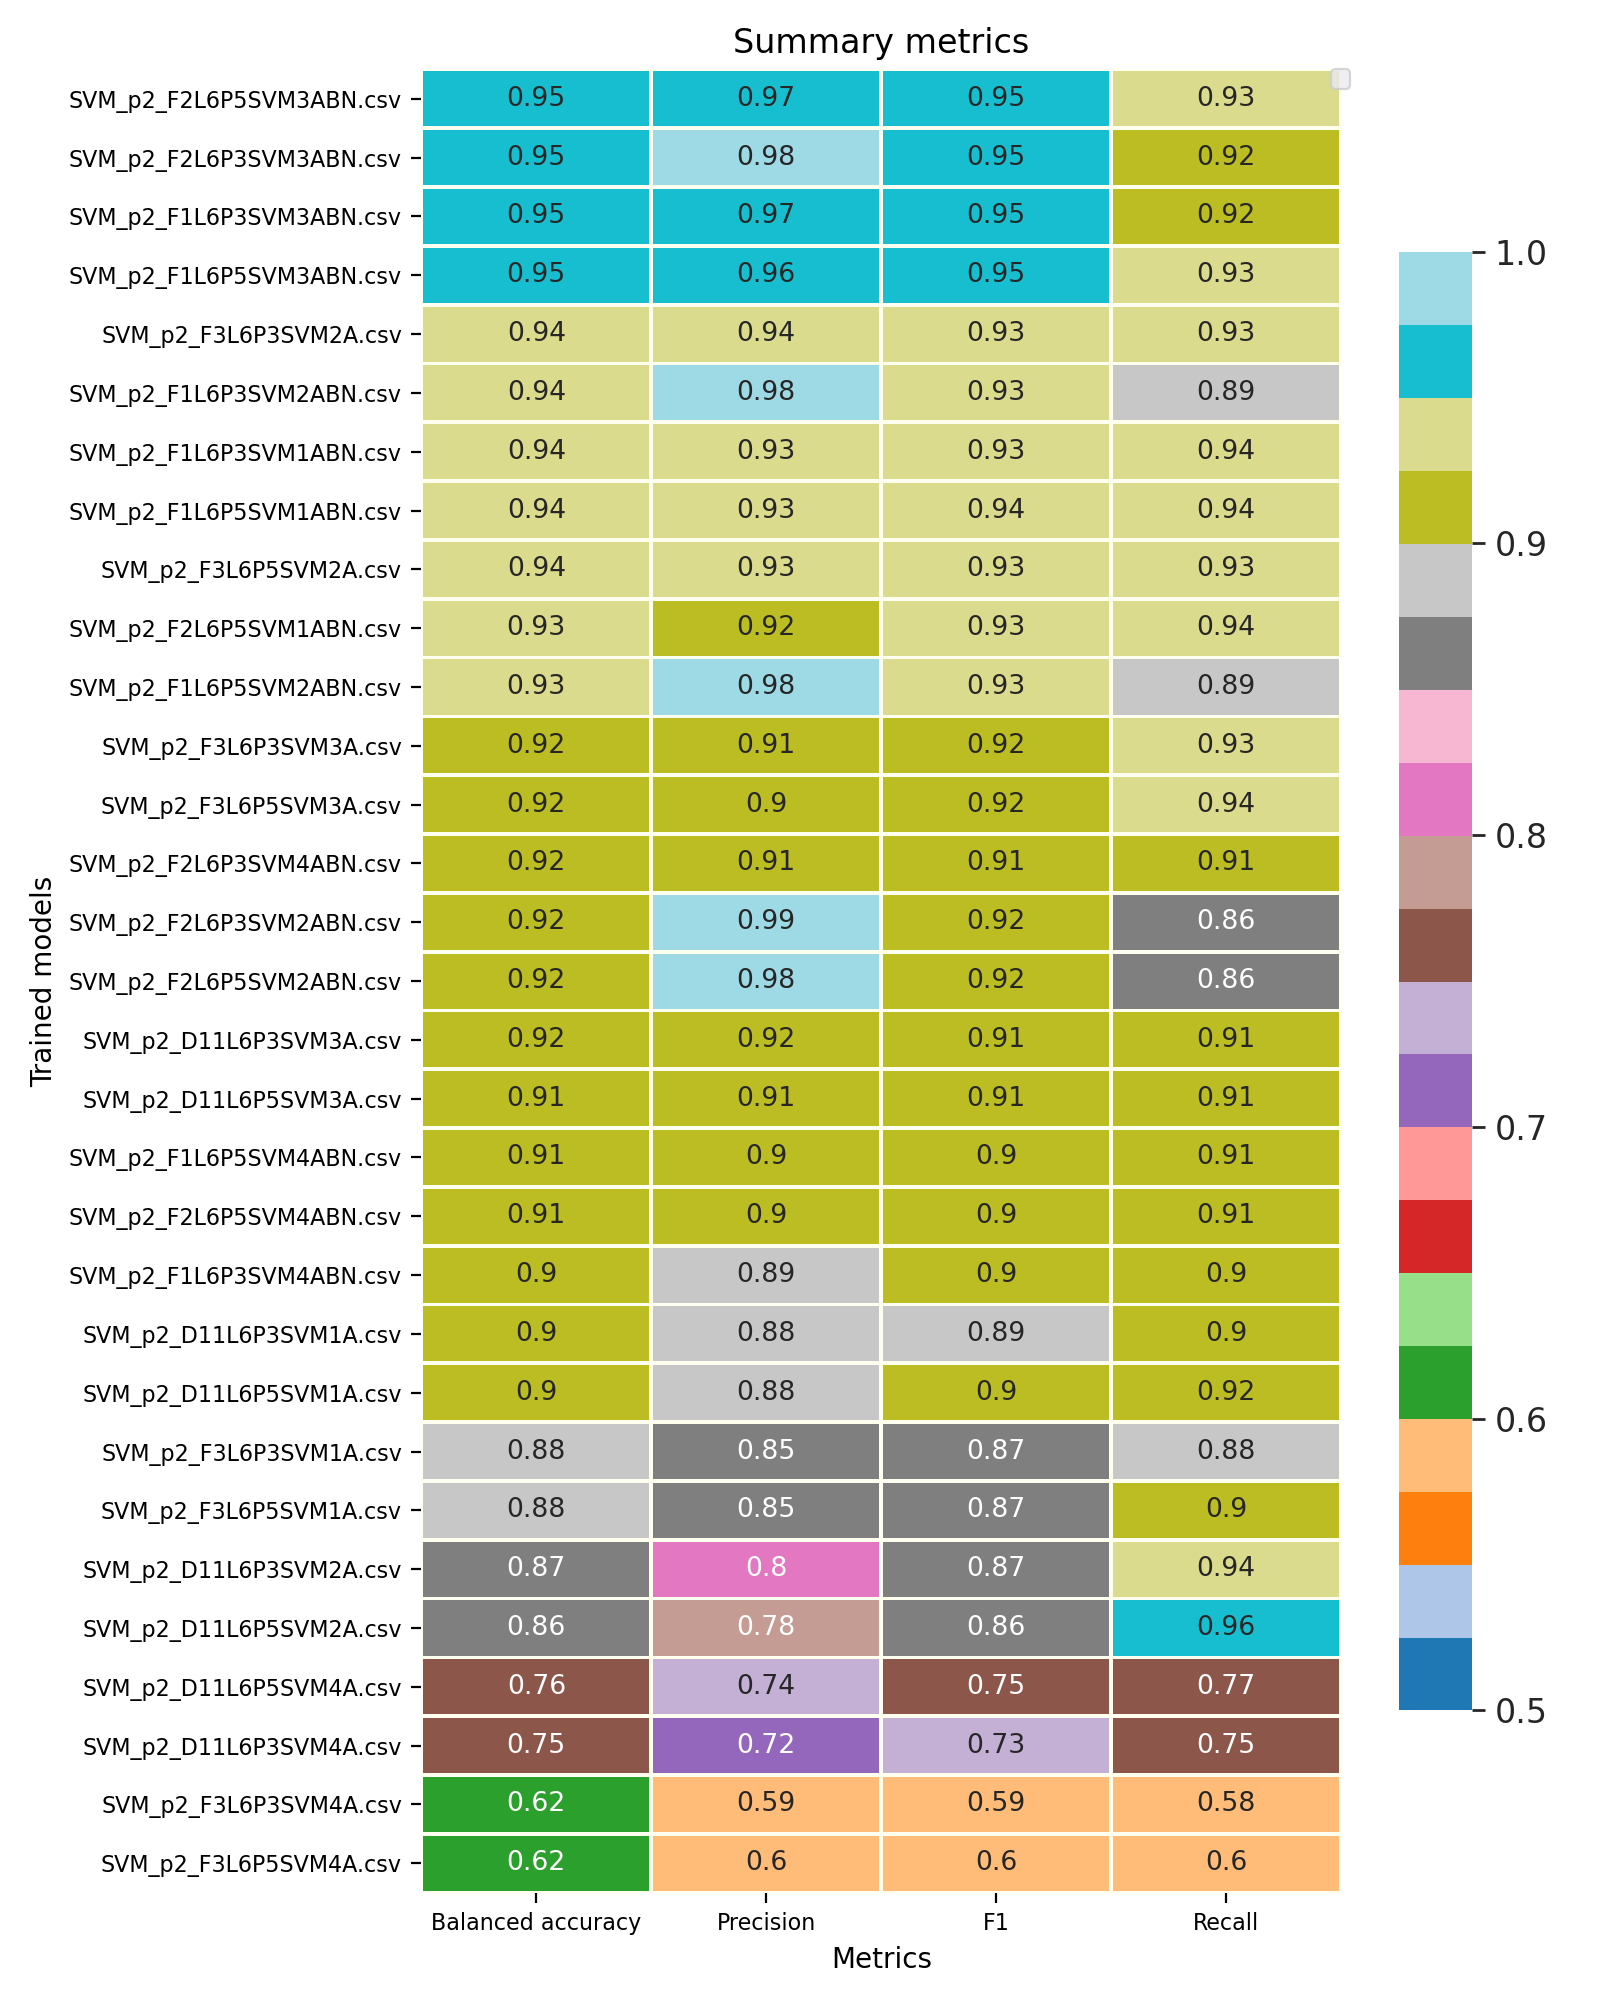
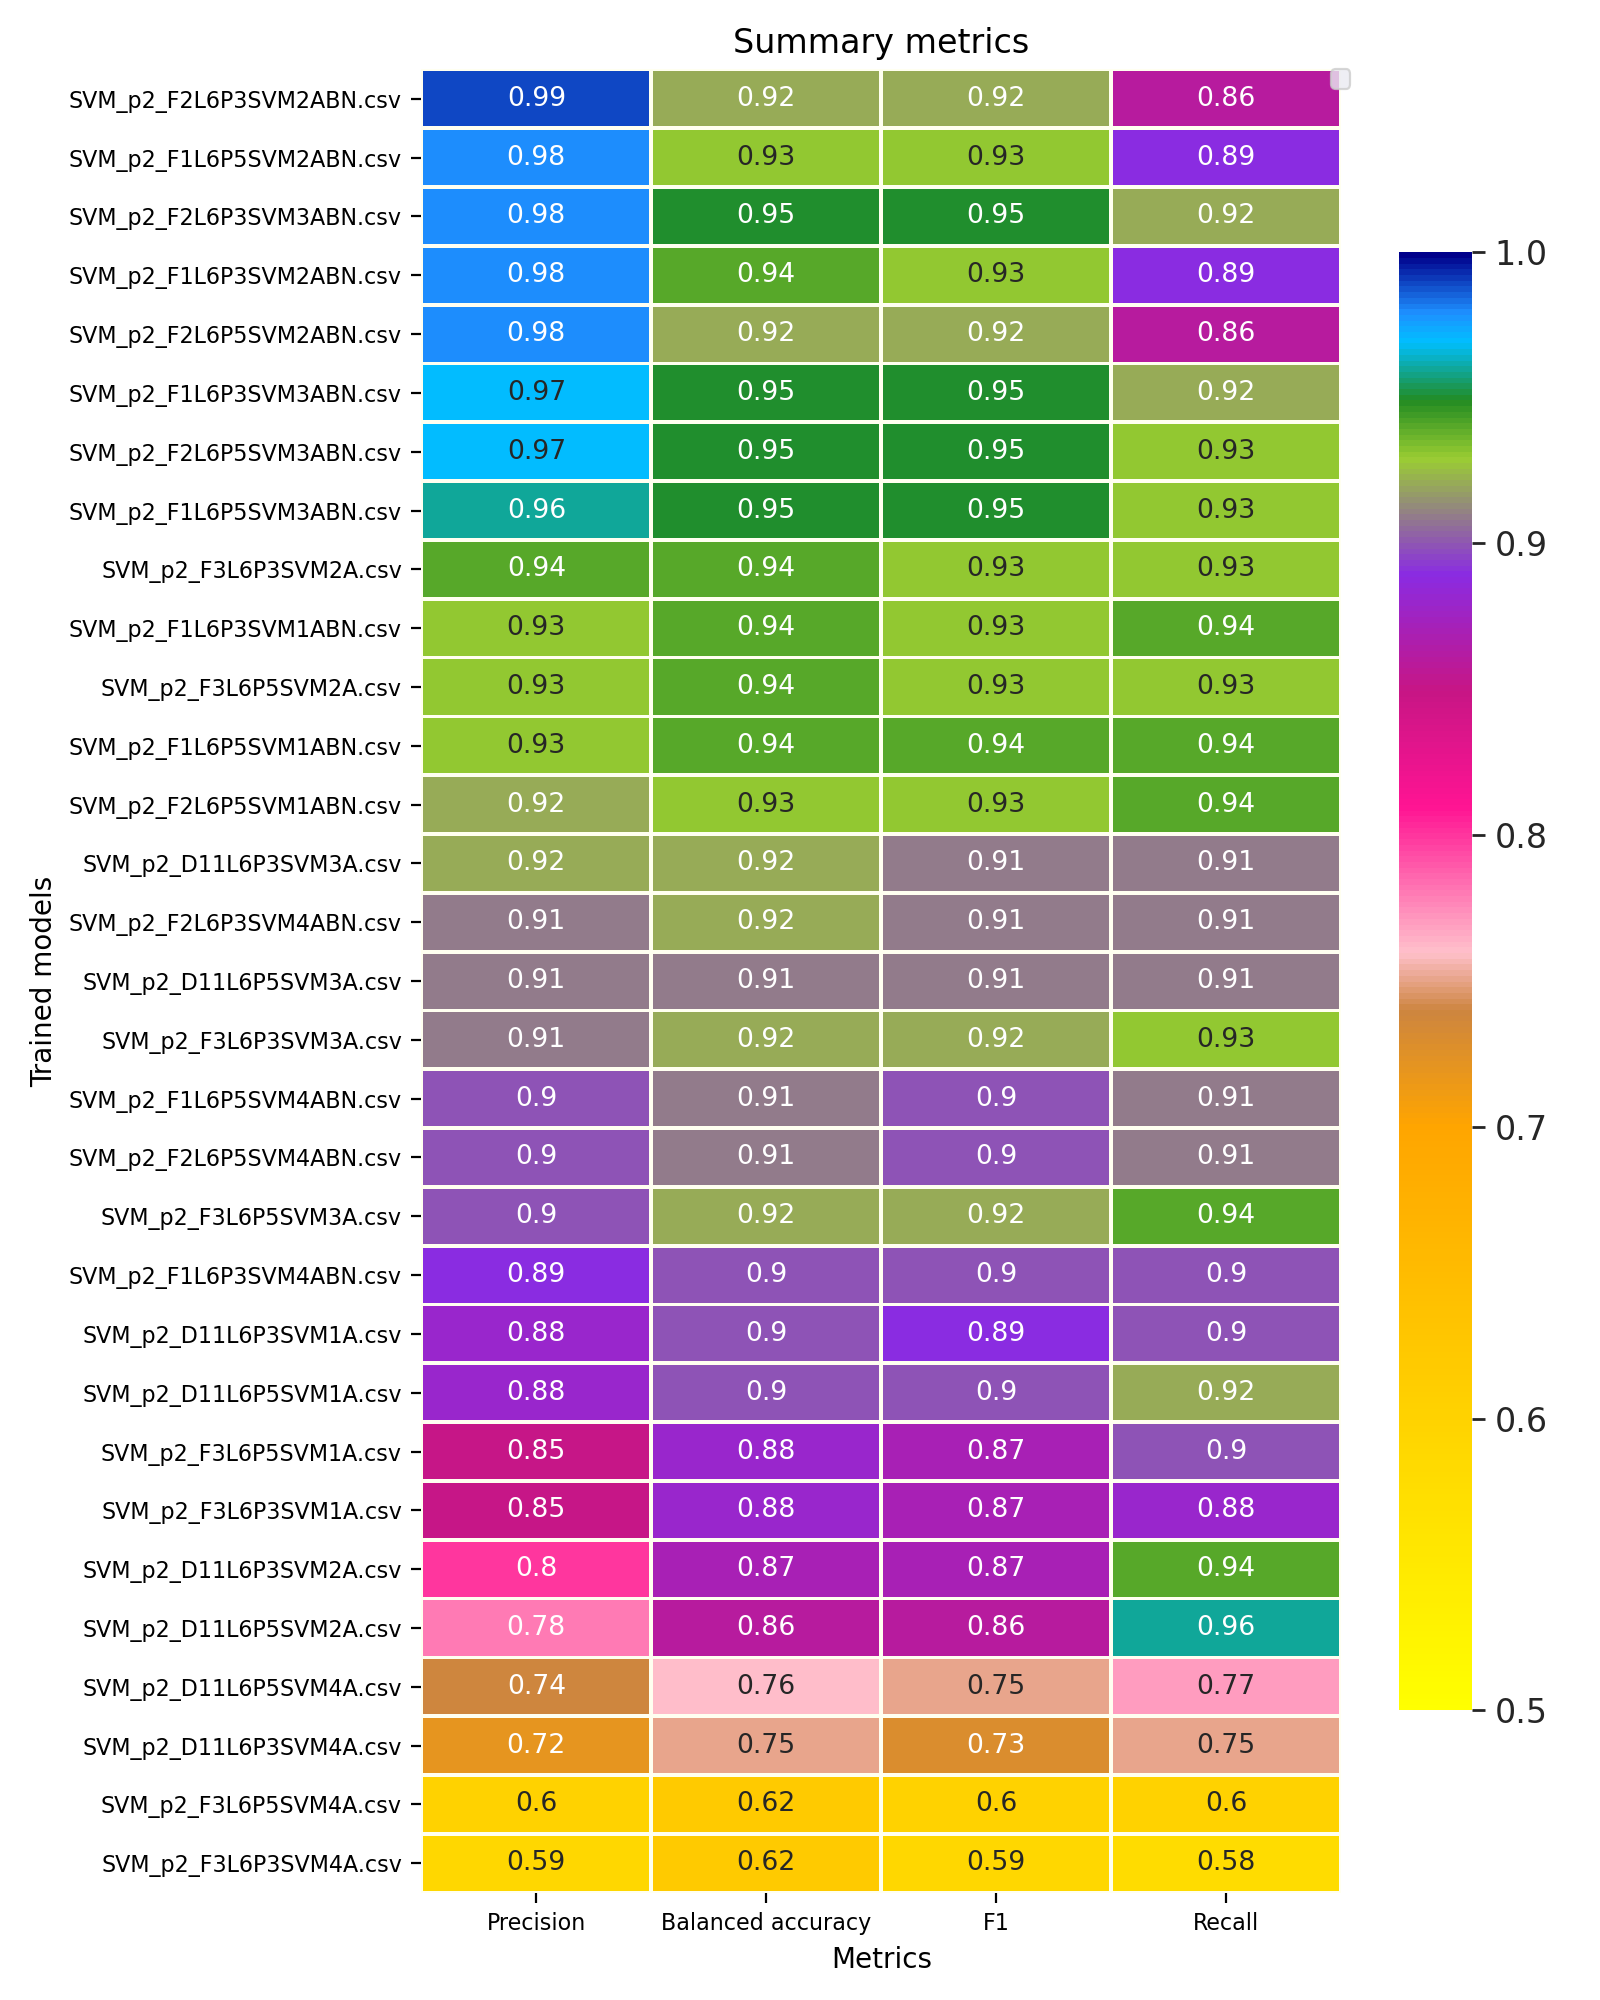
heatmap2

diff --git a/phase-2_a/Supervised_Models/SVM/Info/summary_metrics_zoom.py b/phase-2_a/Supervised_Models/SVM/Info/summary_metrics_zoom.py
@@ -53,49 +53,63 @@ def storage_info(arr):
     )
     DF = DF.sort_values("Precision", ascending=False)
     DF = DF.reset_index(drop=True)
-    DF.to_csv(
-        "/home/babs/Documents/DIFACQUIM/PPI_classifier/phase-2_a/Supervised_Models/SVM/Info/info_metrics/summary_metrics.csv"
-    )
+    # DF.to_csv(
+    #     "/home/babs/Documents/DIFACQUIM/PPI_classifier/phase-2_a/Supervised_Models/SVM/Info/info_metrics/summary_metrics.csv"
+    # )
     print(DF.dtypes)
     return DF
 
 
 def plot(DF):
     DF = DF.set_index("Model")
+    DF = DF[DF["Precision"] > 0.84]
     print(DF.head())
     plt.figure(figsize=[8, 10])
     ax = plt.subplot()
     ################3
 
     bounds = [
-        0.50,
-        0.59,
-        0.70,
-        0.74,
-        0.76,
-        0.81,
+        # amarillo
+        0.84,
         0.85,
+        0.86,
+        # rosa
+        0.87,
+        0.88,
         0.89,
+        # morado
+        0.90,
+        0.91,
+        0.92,
+        # verde
         0.93,
+        0.94,
         0.95,
+        # azul
+        0.96,
         0.97,
-        0.98,
-        1.0,
+        0.99,
+        # 1,
     ]
     colors = [
+        # amarillos
         "yellow",
         "gold",
         "orange",
-        "peru",
+        # rosas
         "pink",
+        "hotpink",
         "deeppink",
+        # morados
         "mediumvioletred",
         "blueviolet",
-        # "indigo",
+        "indigo",
+        # verde
         "yellowgreen",
+        "limegreen",
         "forestgreen",
-        # "cyan",
-        "deepskyblue",
+        # azules
+        "cyan",
         "dodgerblue",
         "darkblue",
     ]
@@ -114,8 +128,8 @@ def plot(DF):
         linewidth=1,
         # annot=True,
         linecolor="ivory",
-        vmin=0.50,
-        vmax=1.0,
+        vmin=0.85,
+        vmax=0.999,
         cbar_kws={"shrink": 0.8},
     )
     ax.tick_params(axis="both", labelsize=8)
@@ -130,7 +144,7 @@ def plot(DF):
     plt.tight_layout(h_pad=0.9)
 
     plt.savefig(
-        "/home/babs/Documents/DIFACQUIM/PPI_classifier/phase-2_a/Supervised_Models/SVM/Info/plot_metrics/headmap_summary.png",
+        "/home/babs/Documents/DIFACQUIM/PPI_classifier/phase-2_a/Supervised_Models/SVM/Info/plot_metrics/headmap_summary_zoom.png",
         dpi=200,
     )
     plt.show()
